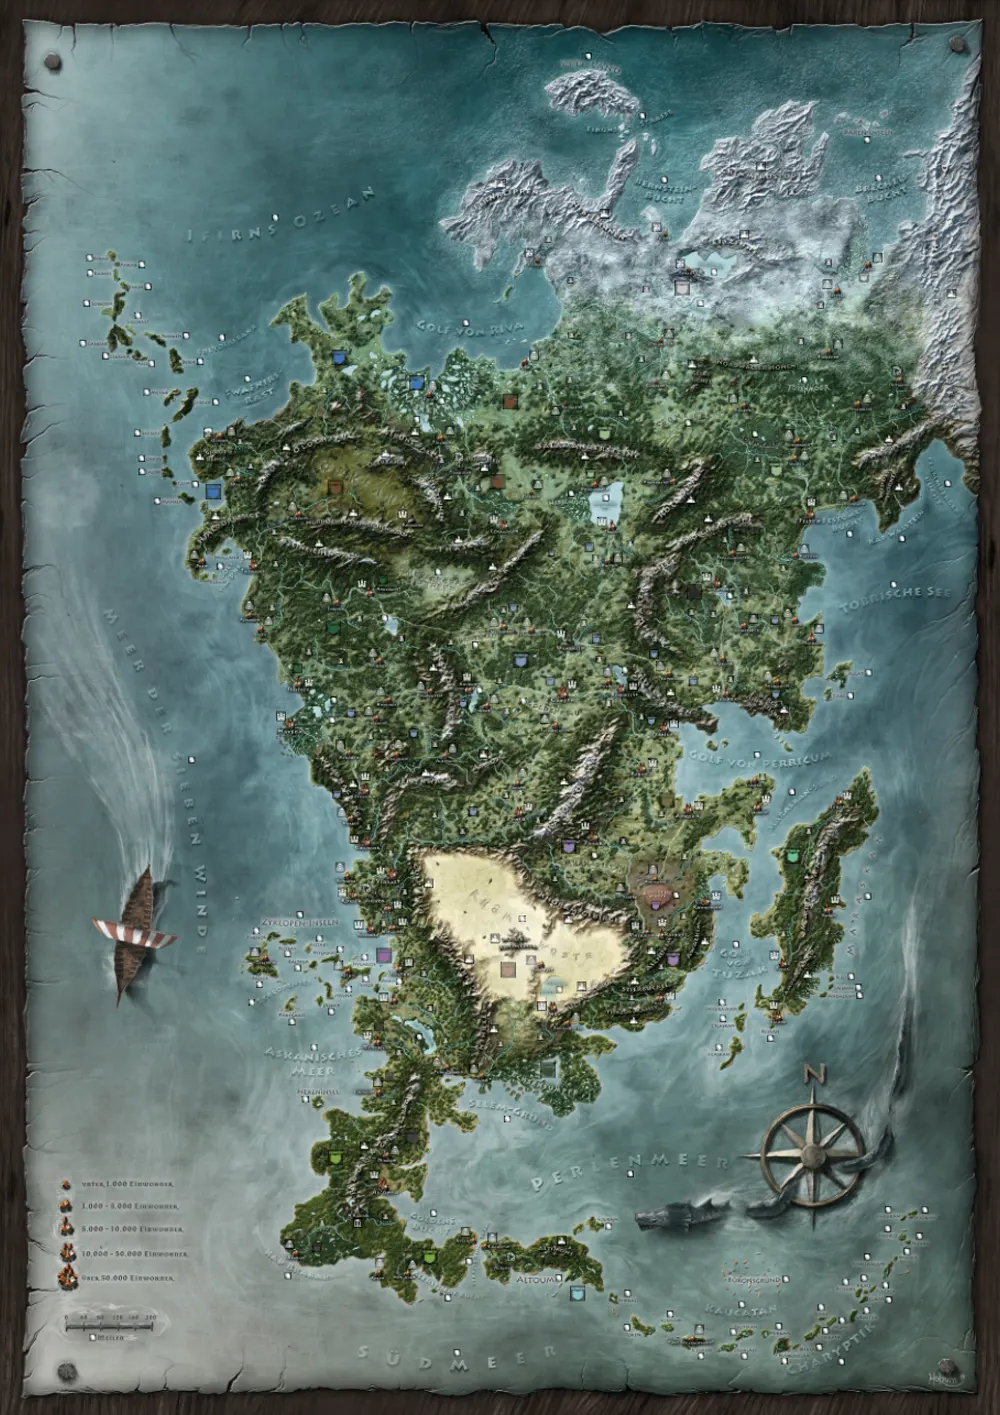
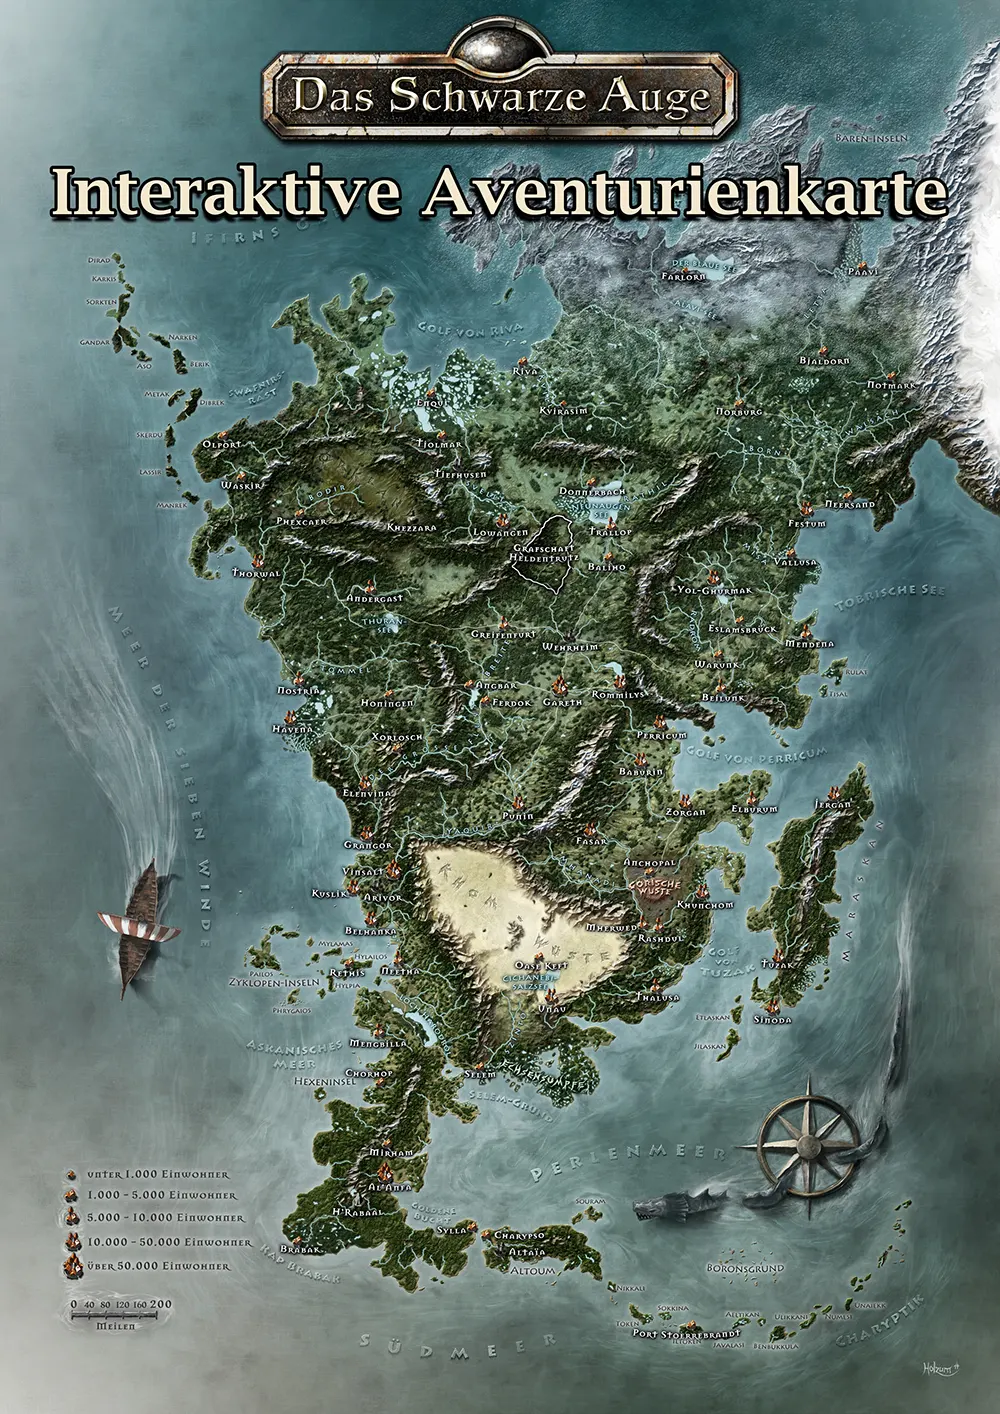
updated cover, module name & description

diff --git a/modules/init.js b/modules/init.js
@@ -1,5 +1,5 @@
 Hooks.on("init", async function() {
-    console.log("Initializing DSA5 aventuria map module")
+    console.log("Initializing DSA5 Interactive Aventuria Map module")
 
     game.settings.register("dsa5-aventuria-map", "firstTimeStart", {
         name: "firstTimeStart",
@@ -20,7 +20,7 @@ Hooks.once("ready", function() {
     }
 
     game.dsa5.apps.journalBrowser.rshs.push({
-        id: "Aventurien Karte",
+        id: "Interaktive Aventurienkarte",
         path: "modules/dsa5-aventuria-map/adventurede.json",
         visible: true
     })

diff --git a/README.md b/README.md
@@ -2,13 +2,17 @@
 ![](https://user-images.githubusercontent.com/7482909/149914526-1a5f6a46-c035-4f7a-9ca9-abab352724ae.jpg)
 
 ### Current Version and Compatibility:
-1.0.0 - FoundryVTT 9.+
+1.0.0 - FoundryVTT 9.+  
 This module is intended for usage with [The Dark Eye 5th Edition System](https://github.com/Plushtoast/dsa5-foundryVTT/) for [Foundry Virtual Tabletop](https://foundryvtt.com/).
 
 ## Module Description
 An interactive Aventuria map for [The Dark Eye 5th Edition System](https://github.com/Plushtoast/dsa5-foundryVTT/).  
 Currently includes over 400+ map notes and over 100+ additional notes about Aventuria.  
 Kindly supported by [Ulisses Spiele](https://ulisses-spiele.de/).  
+  
+Eine interaktive Aventurienkarte für [Das Schwarze Auge 5 Edition System](https://github.com/Plushtoast/dsa5-foundryVTT/).  
+Beinhaltet aktuell über 400+ Notizen auf der Karte und über 100+ zusätzliche Notizen über ganz Aventurien.  
+Mit freundlicher Unterstützung von [Ulisses Spiele](https://ulisses-spiele.de/).
 
 ## Module Language
 German
